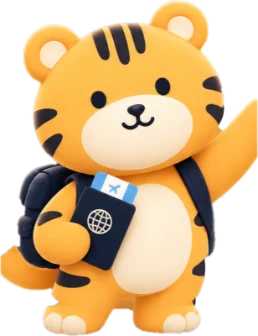
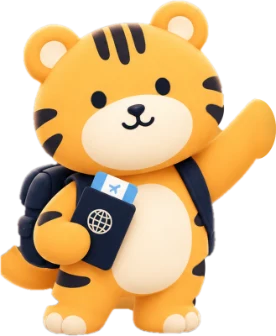
refine(brand): 마스코트의 잘린 앞발을 둥글게 잇고 첫 화면에서 손 흔드는 모습을 드러냄
Claude-Session: https://claude.ai/code/session_01XFJ8zW8ERc6BzuwpBkCpbH

Changed region(s): [[0.031, 0.0, 1.0, 1.0], [0.062, 0.8333, 0.093, 0.8631]]

diff --git a/e2e/brand.spec.ts b/e2e/brand.spec.ts
@@ -47,39 +47,37 @@ test.describe("brand", () => {
     await expect(wordmark(page)).toHaveAttribute("src", "/brand/wordmark-navy.webp");
   });
 
-  test("home hero: the mascot keeps its box before it loads and hides the cut hand behind the bubble", async ({
+  test("home hero: the mascot keeps its box before it loads and waves its paw next to the bubble", async ({
     page,
   }) => {
     for (const width of [320, 360, 412]) {
       await page.setViewportSize({ width, height: 800 });
       for (const lang of ["en", "ja"]) {
         await page.goto(`/${lang}/`);
+        const where = `${lang} ${width}px`;
         const hero = page.locator("main img[src='/brand/mascot.webp']");
-        await expect(hero).toHaveAttribute("width", "258");
+        await expect(hero).toHaveAttribute("width", "276");
         await expect(hero).toHaveAttribute("height", "336");
         await expect(hero).toHaveAttribute("alt", "");
         await expect.poll(() => drawn(hero)).toBe(true);
         const img = (await hero.boundingBox())!;
         // 비율 그대로(늘어나지 않게)
-        expect(Math.abs(img.width / img.height - 258 / 336)).toBeLessThan(0.01);
-        // 원본 그림 틀에서 잘린 손끝: 이미지 오른쪽 가장자리, 높이 472~753/1600 자리. 말풍선이 덮는다
+        expect(Math.abs(img.width / img.height - 276 / 336), where).toBeLessThan(0.01);
+        // 말풍선은 마스코트 옆: 들어 올린 앞발(오른쪽 끝, 높이 471~757/1600)을 가리지 않는다
         const bubble = (await page.getByRole("heading", { level: 1 }).boundingBox())!;
-        const cut = {
-          x: img.x + img.width,
-          top: img.y + img.height * 0.295,
-          bottom: img.y + img.height * 0.471,
-        };
-        const where = `${lang} ${width}px`;
-        expect(bubble.x, where).toBeLessThan(cut.x - 4);
-        // 모서리가 둥근 곳(radius)이 아닌 곧은 왼쪽 변이 덮는지: 위아래로 radius만큼 여유
-        expect(bubble.y + 4, where).toBeLessThanOrEqual(cut.top);
-        expect(bubble.y + bubble.height - 18, where).toBeGreaterThanOrEqual(cut.bottom);
-        // 말풍선이 마스코트보다 위에 그려진다
-        const onTop = await page.evaluate(
-          ([x, y]) => document.elementFromPoint(x!, y!)?.closest("h1") !== null,
-          [cut.x - 2, (cut.top + cut.bottom) / 2],
+        expect(bubble.x, where).toBeGreaterThanOrEqual(img.x + img.width);
+        const paw = await page.evaluate(
+          ([x, y]) => document.elementFromPoint(x!, y!)?.getAttribute("src"),
+          [img.x + img.width - 3, img.y + img.height * (614 / 1600)],
         );
-        expect(onTop, where).toBe(true);
+        expect(paw, where).toBe("/brand/mascot.webp");
+        // 말풍선 글자는 두 줄 이하(320px에서도 "Do you / need help?")
+        const lines = await page.getByRole("heading", { level: 1 }).evaluate((h) => {
+          const cs = getComputedStyle(h);
+          const inner = h.clientHeight - parseFloat(cs.paddingTop) - parseFloat(cs.paddingBottom);
+          return Math.round(inner / parseFloat(cs.lineHeight));
+        });
+        expect(lines, where).toBeLessThanOrEqual(2);
       }
     }
   });

diff --git a/scripts/brand-pixels.js b/scripts/brand-pixels.js
@@ -137,6 +137,39 @@ globalThis.brand = (() => {
   }
 
   /**
+   * 그림 틀에서 평평하게 잘린 팔 끝을 둥근 앞발로 잇는다. 세로 열 x에서 불투명한 구간을 찾아
+   * 그 열의 색을 오른쪽으로 반타원(가로 reach) 모양만큼 늘린다: 줄마다 원래 음영이 그대로 이어지고,
+   * 끝으로 갈수록 조금 어둡게 해 둥근 면처럼 보이게 한다. 반환: [y0, y1, 늘린 픽셀 수]
+   */
+  function roundCut(img, x, reach) {
+    const { width: w, height: h, data: d } = img;
+    let y0 = -1;
+    let y1 = -1;
+    for (let y = 0; y < h; y++)
+      if (d[(y * w + x) * 4 + 3] >= 128) {
+        if (y0 < 0) y0 = y;
+        y1 = y;
+      }
+    const c = (y0 + y1) / 2;
+    const half = (y1 - y0) / 2 + 1;
+    let n = 0;
+    for (let y = y0; y <= y1; y++) {
+      const t = (y - c) / half;
+      const len = reach * Math.sqrt(Math.max(0, 1 - t * t));
+      const src = (y * w + x) * 4;
+      for (let dx = 1; dx <= Math.ceil(len) + 1 && x + dx < w; dx++) {
+        const cover = Math.max(0, Math.min(1, len - dx + 1));
+        const i = (y * w + x + dx) * 4;
+        const shade = 1 - 0.1 * (dx / reach) ** 2;
+        for (let k = 0; k < 3; k++) d[i + k] = Math.round(d[src + k] * shade);
+        d[i + 3] = Math.round(d[src + 3] * cover);
+        if (cover > 0) n++;
+      }
+    }
+    return [y0, y1, n];
+  }
+
+  /**
    * 정확히 그 색인 픽셀만 바꾼다(불투명도는 그대로). pairs: [[from, to], ...], tol: 채널당 허용 차이.
    * minX: 이 x부터만(로고에서 호랑이 마크의 크림 입 주변·남색 배낭을 건드리지 않게)
    */
@@ -216,5 +249,5 @@ globalThis.brand = (() => {
     return { type: blob.type, base64: btoa(s) };
   }
 
-  return { load, fillHoles, patchUnder, swapColors, bbox, resized, encode };
+  return { load, fillHoles, patchUnder, roundCut, swapColors, bbox, resized, encode };
 })();

diff --git a/src/app/[lang]/home.module.css b/src/app/[lang]/home.module.css
@@ -6,10 +6,7 @@
   padding-top: var(--space-2);
 }
 
-/*
- * 마스코트 136px(파생본은 2배). 원본 그림 틀에서 평평하게 잘린 손끝이 오른쪽 가장자리 40~64px 높이에 있다:
- * 말풍선이 그 자리를 8px 덮는다. 위 32px에서 시작하고 모서리가 둥글어도 한 줄 말풍선(약 61px)이 다 가린다
- */
+/* 마스코트 136px(파생본은 2배). 들어 올린 앞발(오른쪽 끝, 위에서 40~64px)이 말풍선 쪽으로 손을 흔든다 */
 .mascot {
   height: 136px;
 }
@@ -17,9 +14,8 @@
 /* 말풍선: 호랑이가 먼저 말을 건다. 뾰족한 모서리(왼쪽 위)가 얼굴 쪽을 향한다 */
 .ask {
   position: relative;
-  z-index: 1;
   flex: 1;
-  margin: var(--space-7) 0 0 calc(var(--space-2) * -1);
+  margin: var(--space-7) 0 0 var(--space-2);
   padding: var(--space-4) var(--space-5);
   background: var(--color-surface);
   border: 0;
@@ -32,14 +28,15 @@
   text-wrap: balance;
 }
 
-/* 320px 폰: 말풍선 글자 자리를 남긴다("Do you / need help?" 두 줄). 손끝(34~55px)은 그대로 말풍선 뒤 */
+/* 320px 폰: 말풍선 글자 자리를 남긴다("Do you / need help?" 두 줄) */
 @media (max-width: 359px) {
   .mascot {
-    height: 116px;
+    height: 108px;
   }
 
   .ask {
     margin-top: var(--space-6);
+    padding-inline: var(--space-4);
   }
 }
 

diff --git a/src/lib/brand-images.ts b/src/lib/brand-images.ts
@@ -1,8 +1,8 @@
 // 화면에 쓰는 브랜드 이미지(public/brand, scripts/make-brand.mts가 만든다)의 경로와 픽셀 크기.
 // 크기는 화면에 보이는 가장 큰 크기의 약 2배다. <img width/height>와 파생본 스크립트가 같은 값을 쓴다.
 export const BRAND_IMAGES = {
-  // 첫 화면 히어로(136px 높이)·404(168px 높이). 몸 전체, 원본 눈 구멍·깎인 줄무늬를 보수했다
-  mascot: { src: "/brand/mascot.webp", width: 258, height: 336 },
+  // 첫 화면 히어로(136px 높이)·404(168px 높이). 몸 전체. 원본 눈 구멍·깎인 줄무늬·잘린 앞발을 보수했다
+  mascot: { src: "/brand/mascot.webp", width: 276, height: 336 },
   // 도움 맥락 패널의 머리·어깨(72px)
   "mascot-bust": { src: "/brand/mascot-bust.webp", width: 144, height: 144 },
   // 첫 화면 머리의 워드마크(18px 높이). cream = 어두운 화면, navy = 밝은 화면
